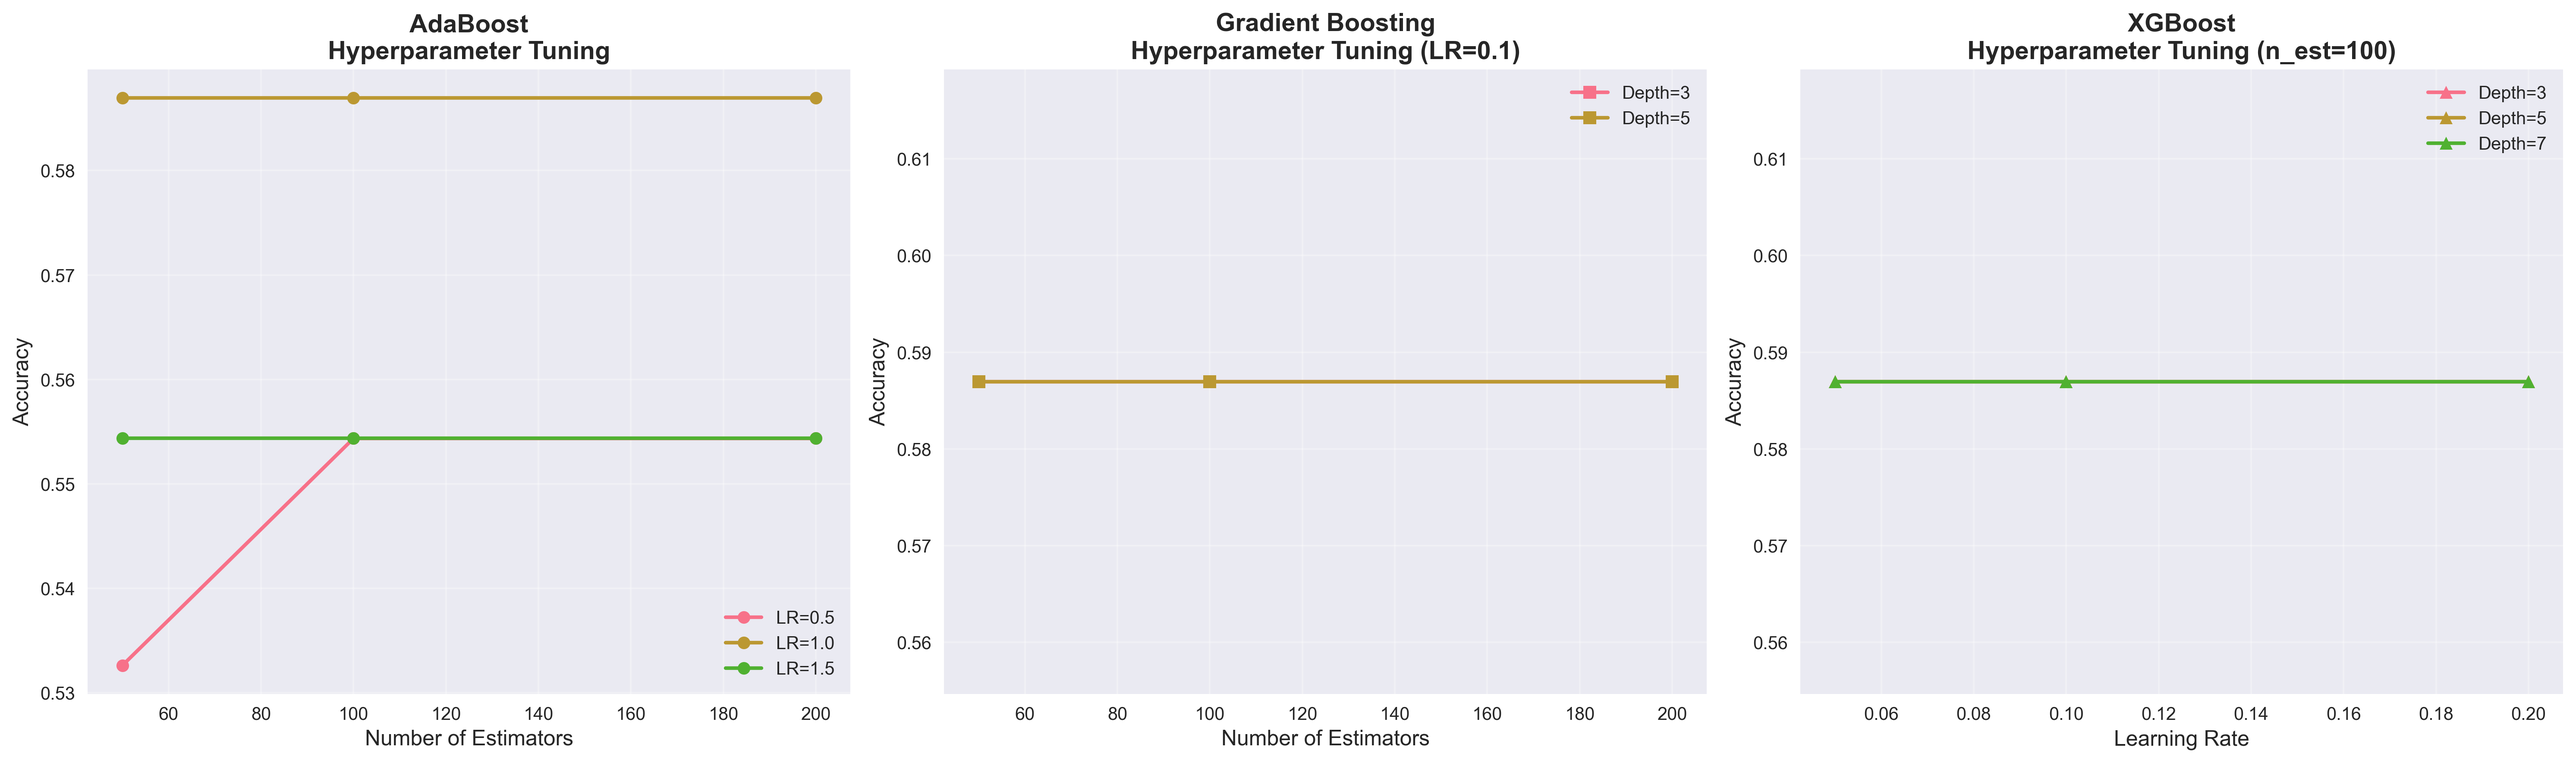
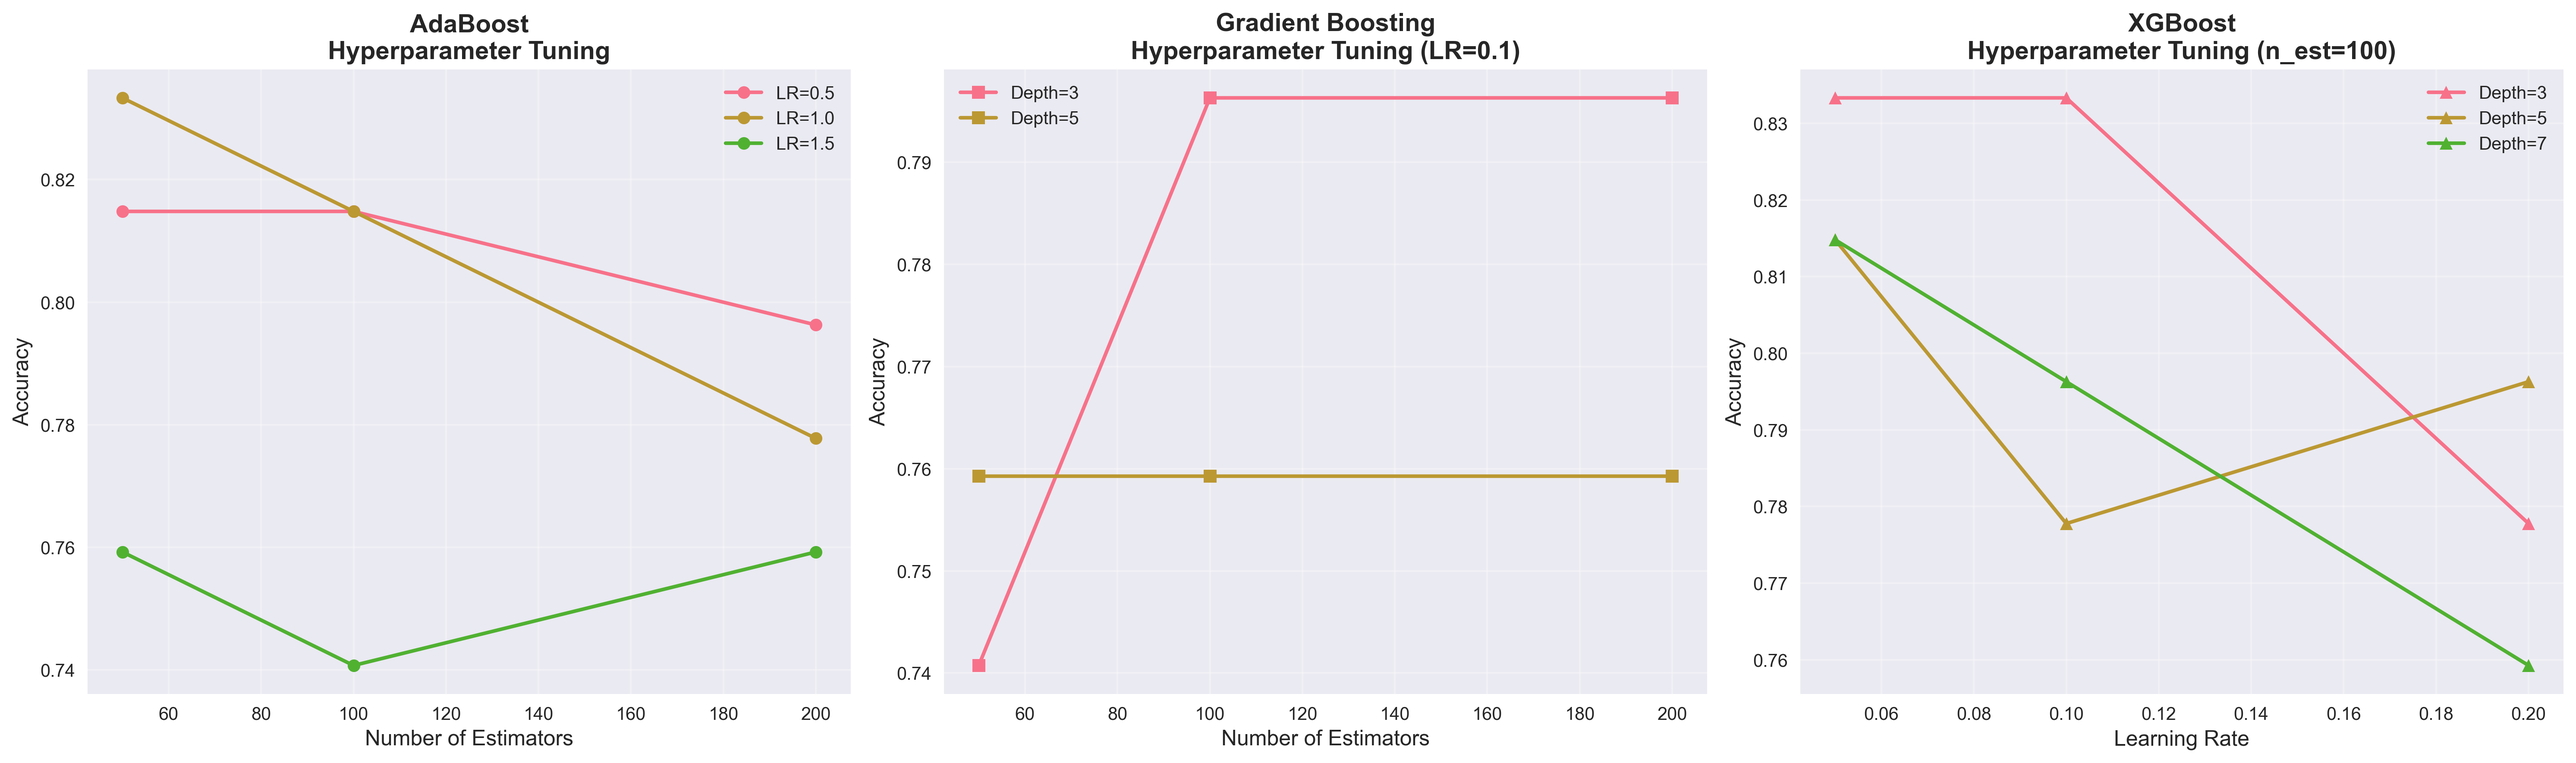
before fort

diff --git a/machine_learning/boosting/run_boosting_analysis.py b/machine_learning/boosting/run_boosting_analysis.py
@@ -31,104 +31,74 @@ print("BOOSTING ANALYSIS FOR CS2 ROUND WINNER PREDICTION")
 print("="*80)
 
 # Load all match data
-data_dir = '../hltv_data'
+data_dir = 'enhanced_features'
 
-# Get all rounds and deaths files
-rounds_files = glob.glob(os.path.join(data_dir, '*_rounds.csv'))
-deaths_files = glob.glob(os.path.join(data_dir, '*_deaths.csv'))
+# Check for combined file first, otherwise load individual files
+combined_file = os.path.join(data_dir, 'combined_enhanced_features.csv')
+if os.path.exists(combined_file):
+    print(f"\nLoading combined features file: {combined_file}")
+    features_df = pd.read_csv(combined_file)
+    print(f"Total rows loaded: {len(features_df)}")
+else:
+    # Get all enhanced features files
+    feature_files = glob.glob(os.path.join(data_dir, '*_enhanced_features.csv'))
 
-print(f"\nFound {len(rounds_files)} match files")
+    print(f"\nFound {len(feature_files)} enhanced feature files")
 
-# Load and combine all rounds data
-rounds_dfs = []
-for file in rounds_files:
-    df = pd.read_csv(file)
-    match_name = os.path.basename(file).replace('_rounds.csv', '')
-    df['match_id'] = match_name
-    rounds_dfs.append(df)
+    # Check if files were found
+    if len(feature_files) == 0:
+        print(f"ERROR: No enhanced feature files found in {data_dir}")
+        print(f"Looking for files matching pattern: {os.path.join(data_dir, '*_enhanced_features.csv')}")
+        print(f"Current working directory: {os.getcwd()}")
+        print(f"Data directory (relative): {data_dir}")
+        print(f"Data directory (absolute): {os.path.abspath(data_dir)}")
+        exit(1)
 
-rounds_df = pd.concat(rounds_dfs, ignore_index=True)
-print(f"Total rounds loaded: {len(rounds_df)}")
+    # Load and combine all enhanced features data
+    features_dfs = []
+    for file in feature_files:
+        df = pd.read_csv(file)
+        # match_id should already be in the file, but ensure it's there
+        if 'match_id' not in df.columns:
+            match_name = os.path.basename(file).replace('_enhanced_features.csv', '')
+        df['match_id'] = match_name
+        features_dfs.append(df)
 
-# Load and combine all deaths data
-deaths_dfs = []
-for file in deaths_files:
-    df = pd.read_csv(file)
-    match_name = os.path.basename(file).replace('_deaths.csv', '')
-    df['match_id'] = match_name
-    deaths_dfs.append(df)
+    features_df = pd.concat(features_dfs, ignore_index=True)
+    print(f"Total rows loaded: {len(features_df)}")
 
-deaths_df = pd.concat(deaths_dfs, ignore_index=True)
-print(f"Total deaths loaded: {len(deaths_df)}")
-
-# Feature engineering function
-def create_round_features_fixed(rounds_df, deaths_df):
-    """
-    Create features for round winner prediction from rounds and deaths data.
-    """
-    features_list = []
-    
-    for idx, round_row in rounds_df.iterrows():
-        match_id = round_row['match_id']
-        round_num = round_row['round_num']
-        
-        # Get deaths for this round
-        round_deaths = deaths_df[
-            (deaths_df['match_id'] == match_id)
-        ].copy()
-        
-        if len(round_deaths) == 0:
-            continue
-            
-        # Calculate features
-        features = {
-            'match_id': match_id,
-            'round_num': round_num,
-            'winning_team': round_row['winning_team'],
-            
-            # Bomb features
-            'bomb_planted': int(round_row['bomb_planted']),
-            
-            # Kill features
-            'total_kills': len(round_deaths),
-            'headshot_rate': round_deaths['headshot'].mean() if len(round_deaths) > 0 else 0,
-            
-            # Damage features
-            'avg_damage': round_deaths['dmg_health'].mean(),
-            'total_damage': round_deaths['dmg_health'].sum(),
-            
-            # Distance features
-            'avg_distance': round_deaths['distance'].mean(),
-            
-            # Weapon-specific kills
-            'ak47_kills': (round_deaths['weapon'] == 'ak47').sum(),
-            'awp_kills': (round_deaths['weapon'] == 'awp').sum(),
-            'm4a1_kills': (round_deaths['weapon'].isin(['m4a1', 'm4a1_silencer'])).sum(),
-            
-            # Special kill types
-            'headshot_kills': round_deaths['headshot'].sum(),
-            'noscope_kills': round_deaths['noscope'].sum(),
-            'thrusmoke_kills': round_deaths['thrusmoke'].sum(),
-        }
-        
-        features_list.append(features)
-    
-    return pd.DataFrame(features_list)
-
-# Create features
-print("\nCreating features...")
-features_df = create_round_features_fixed(rounds_df, deaths_df)
+# Clean features - keep only rows with winning_team
 features_df_clean = features_df.dropna(subset=['winning_team'])
 
-print(f"Features created for {len(features_df_clean)} rounds")
+# For modeling, we need to get one row per round (the final state or aggregate)
+# The enhanced features have multiple rows per round (one per tick/time_elapsed)
+# We'll use the last row for each round (highest time_elapsed)
+print("\nAggregating features per round...")
+features_df_clean = features_df_clean.sort_values(['match_id', 'round_num', 'time_elapsed'])
+features_df_clean = features_df_clean.groupby(['match_id', 'round_num']).last().reset_index()
+
+print(f"Features prepared for {len(features_df_clean)} rounds")
 
 # Prepare data for modeling
+# Select features available in enhanced_features files
 numeric_features = [
-    'bomb_planted', 'total_kills', 'headshot_rate', 
-    'avg_damage', 'total_damage', 'avg_distance', 
-    'ak47_kills', 'awp_kills', 'm4a1_kills',
-    'headshot_kills', 'noscope_kills', 'thrusmoke_kills'
+    'bomb_planted', 'player_count_advantage',
+    't_total_hp', 'ct_total_hp', 't_avg_hp', 'ct_avg_hp',
+    't_total_armor', 'ct_total_armor',
+    't_equipment_value', 'ct_equipment_value', 'equipment_advantage',
+    't_awp_count', 'ct_awp_count', 'awp_advantage',
+    't_rifle_count', 'ct_rifle_count', 'rifle_advantage',
+    'time_since_plant', 'time_until_explosion',
+    'round_time_elapsed', 'round_time_remaining'
 ]
+
+# Filter to only include features that exist in the dataframe
+available_features = [f for f in numeric_features if f in features_df_clean.columns]
+if len(available_features) < len(numeric_features):
+    missing = set(numeric_features) - set(available_features)
+    print(f"Warning: Some features not found in data: {missing}")
+    print(f"Using {len(available_features)} available features")
+numeric_features = available_features
 
 X = features_df_clean[numeric_features].fillna(0)
 y = features_df_clean['winning_team']
@@ -360,8 +330,11 @@ print("✓ Saved boosting_concept.png")
 # 3. Data Sample
 fig, ax = plt.subplots(figsize=(14, 6))
 
-sample_data = features_df_clean[['winning_team', 'bomb_planted', 'total_kills', 'headshot_rate', 
-                                   'avg_damage', 'ak47_kills', 'awp_kills']].head(10)
+# Select sample columns that exist in the dataframe
+sample_cols = ['winning_team', 'bomb_planted', 'player_count_advantage', 
+               't_total_hp', 'ct_total_hp', 'equipment_advantage', 'awp_advantage']
+sample_cols = [col for col in sample_cols if col in features_df_clean.columns]
+sample_data = features_df_clean[sample_cols].head(10)
 
 table = ax.table(cellText=sample_data.values,
                 colLabels=sample_data.columns,
